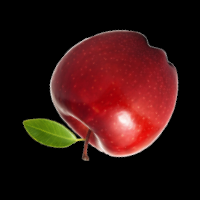
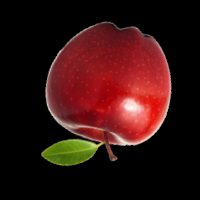
detection of rotation works, still messy code

diff --git a/main_2_detect_apple.m b/main_2_detect_apple.m
@@ -109,7 +109,7 @@ thresholdFactor = 0.01;
 inPath = [para.dataPath para.categoryName];
 cachePath = ['./output/' para.name '/feature'];
 templatePath = ['./output/' 'sequence' '/template'];
-resultPath = ['./output/' para.name '_test/result_seed_' num2str(seed)];
+resultPath = ['./output/' para.name '/result_seed_' num2str(seed)];
 
 if exist(['./output/' para.name],'dir')
     rmdir(['./output/' para.name],'s')
@@ -391,6 +391,12 @@ for it = 1:numEMIteration
 
         end
     end
+    
+    I_s = uint8(zeros([[100, 100], 3, numImage]));
+    for iImg = 1:numImage
+        I_s(:,:,:,iImg) = imread([boundingBoxSavingFolder '/' 'boundingBox-cluster-1-img-' sprintf('%04d', iImg) '.png']);
+    end
+    imSaveAsGif([boundingBoxSavingFolder '/boundingBox.gif'], I_s);
 
 end
 

diff --git a/imSaveAsGif.m b/imSaveAsGif.m
@@ -4,7 +4,7 @@ for n = 1:size(I_s,4)
     I = I_s(:,:,:,n);
     [imind,cm] = rgb2ind(I,256); 
     if n == 1 
-      imwrite(imind,cm,filename,'gif', 'Loopcount',inf); 
+      imwrite(imind,cm,filename,'gif','Loopcount',inf); 
     else 
       imwrite(imind,cm,filename,'gif','WriteMode','append'); 
     end 

diff --git a/main_0_generate_data.m b/main_0_generate_data.m
@@ -1,4 +1,4 @@
-angle = 15;
+angle = 18;
 n = 360/angle;
 
 [I, I_s] = rotate('data-source/sequence/apple/apple.png', angle);
